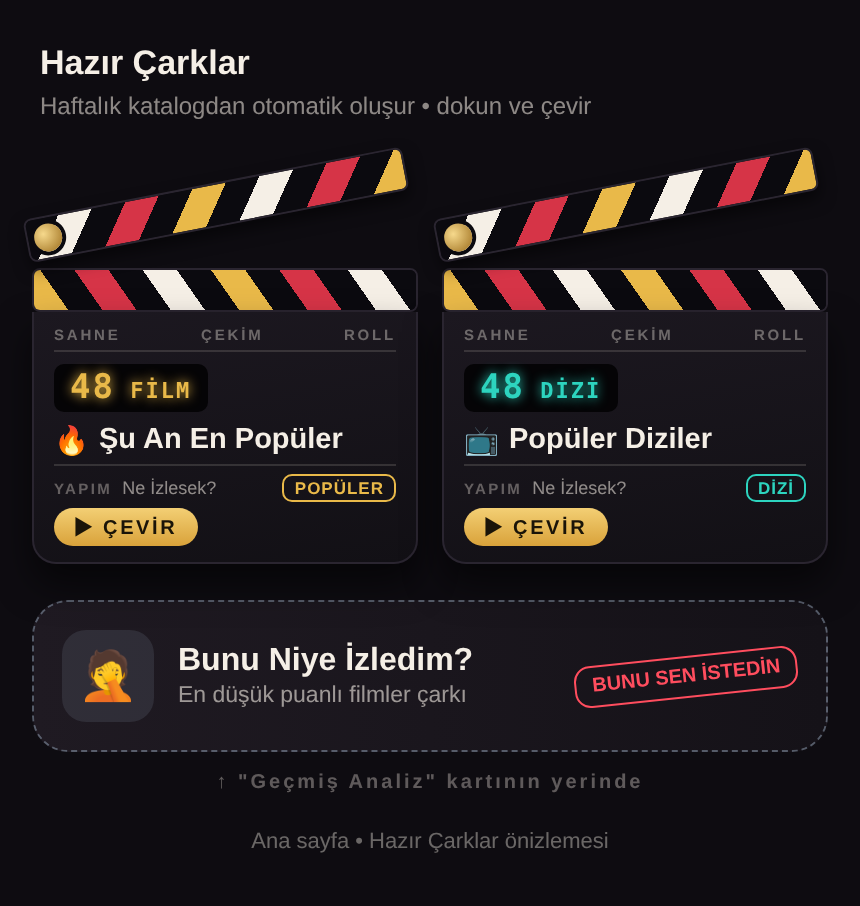
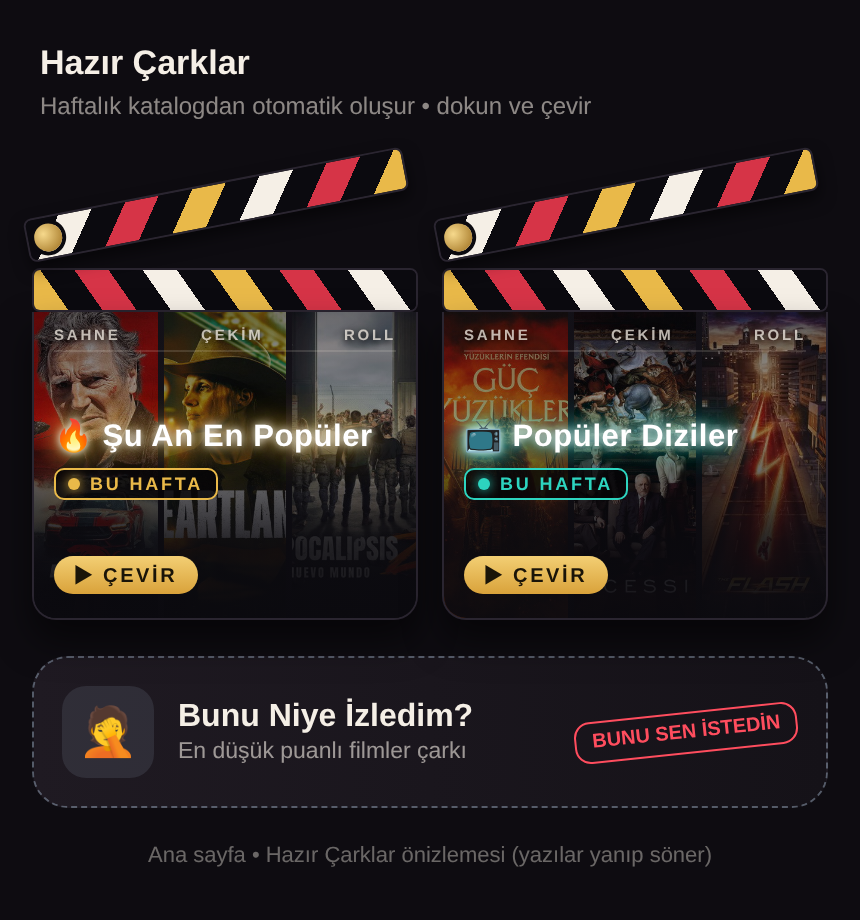
Hazır çarklar v3 önizlemesi: afişli klaketler, sayısız, yanıp sönen yazılar
Claude-Session: https://claude.ai/code/session_01Q1LBDkMis9fZfSetxmGZms

diff --git a/branding/hazir-carklar-anasayfa.html b/branding/hazir-carklar-anasayfa.html
@@ -34,30 +34,45 @@ h2{font-size:17px;font-weight:900;margin:0 4px 4px} .sub{font-size:12px;color:rg
 .ph{font-size:17px;font-weight:900;margin:6px 4px 12px}
 .prow{display:flex;gap:10px;margin-bottom:14px}.prow div{flex:1;background:#17141b;border-radius:14px;padding:12px;text-align:center;border:1px solid #2a2530}
 .prow b{display:block;font-size:20px;color:#e9b949}.prow span{font-size:10.5px;color:rgba(245,239,230,.55)}
+
+.slate{overflow:hidden}
+.bgp{position:absolute;inset:0;display:flex;gap:3px;opacity:.95}
+.bgp img{flex:1;height:100%;object-fit:cover;min-width:0}
+.bgshade{position:absolute;inset:0;background:linear-gradient(180deg,rgba(11,10,15,.55) 0%,rgba(11,10,15,.35) 35%,rgba(11,10,15,.88) 75%,rgba(11,10,15,.96) 100%)}
+.slate > *:not(.bgp):not(.bgshade){position:relative;z-index:2}
+.rowh{color:rgba(245,239,230,.75)!important;text-shadow:0 1px 3px #000}
+.neon{margin-top:34px;font-size:15.5px;font-weight:900;line-height:1.15;color:#fff;letter-spacing:.3px}
+.neon.on{text-shadow:0 0 4px #fff,0 0 10px var(--acc),0 0 20px var(--acc),0 2px 4px #000}
+.neon.off{text-shadow:0 2px 4px #000;color:rgba(255,255,255,.82)}
+.live{display:inline-flex;align-items:center;gap:5px;font-size:9px;font-weight:900;letter-spacing:1.4px;color:var(--acc);background:rgba(5,4,6,.78);border:1px solid var(--acc);border-radius:5px;padding:2px 6px;margin-top:6px}
+.live i{width:6px;height:6px;border-radius:50%;background:var(--acc);box-shadow:0 0 6px var(--acc)}
+.live.off i{opacity:.25;box-shadow:none}
+.slate > .go{position:absolute!important;left:10px;bottom:12px;z-index:3}
+.clap{height:206px!important}
 </style></head><body>
 <h2>Hazır Çarklar</h2><div class="sub">Haftalık katalogdan otomatik oluşur • dokun ve çevir</div>
-<div class="grid"><div class="clap">
+<div class="grid"><div class="clap" style="--acc:#E9B949">
   <div class="stick top"><div class="stripes"></div><div class="hinge"></div></div>
   <div class="stick low"><div class="stripes"></div></div>
   <div class="slate">
+    <div class="bgp"><img src="p/l80bthReoL08m8oU74R4ZMxgnGZ.jpg"><img src="p/zhxlzxBlO1sWB1rPn7RmAoeQ2na.jpg"><img src="p/pS2R3DEiucuizVkKP80qzdO97TE.jpg"></div><div class="bgshade"></div>
     <div class="rowh"><span>SAHNE</span><span>ÇEKİM</span><span>ROLL</span></div>
-    <div class="lcd" style="color:#E9B949;text-shadow:0 0 6px #E9B949"><b>48</b> FİLM</div>
-    <div class="name"><i>🔥</i>Şu An En Popüler</div>
-    <div class="line"><span>YAPIM</span>Ne İzlesek?<em style="border-color:#E9B949;color:#E9B949">POPÜLER</em></div>
+    <div class="neon on">🔥 Şu An En Popüler</div>
+    <div class="live on"><i></i>BU HAFTA</div>
     <div class="go">▶ ÇEVİR</div>
   </div>
-</div><div class="clap">
+</div><div class="clap" style="--acc:#2DD4BF">
   <div class="stick top"><div class="stripes"></div><div class="hinge"></div></div>
   <div class="stick low"><div class="stripes"></div></div>
   <div class="slate">
+    <div class="bgp"><img src="p/7daMA65eFTxcTg58E0YoCMyAj63.jpg"><img src="p/z0XiwdrCQ9yVIr4O0pxzaAYRxdW.jpg"><img src="p/yZevl2vHQgmosfwUdVNzviIfaWS.jpg"></div><div class="bgshade"></div>
     <div class="rowh"><span>SAHNE</span><span>ÇEKİM</span><span>ROLL</span></div>
-    <div class="lcd" style="color:#2DD4BF;text-shadow:0 0 6px #2DD4BF"><b>48</b> DİZİ</div>
-    <div class="name"><i>📺</i>Popüler Diziler</div>
-    <div class="line"><span>YAPIM</span>Ne İzlesek?<em style="border-color:#2DD4BF;color:#2DD4BF">DİZİ</em></div>
+    <div class="neon on">📺 Popüler Diziler</div>
+    <div class="live on"><i></i>BU HAFTA</div>
     <div class="go">▶ ÇEVİR</div>
   </div>
 </div></div>
 <div class="worst"><div class="e">🤦</div><div><div class="tt">Bunu Niye İzledim?</div><div class="ss">En düşük puanlı filmler çarkı</div></div><div class="go2">BUNU SEN İSTEDİN</div></div>
-<div class="ctx" style="margin-top:10px">↑ "Geçmiş Analiz" kartının yerinde</div>
-<div class="cap">Ana sayfa • Hazır Çarklar önizlemesi</div>
+
+<div class="cap">Ana sayfa • Hazır Çarklar önizlemesi (yazılar yanıp söner)</div>
 </body></html>
